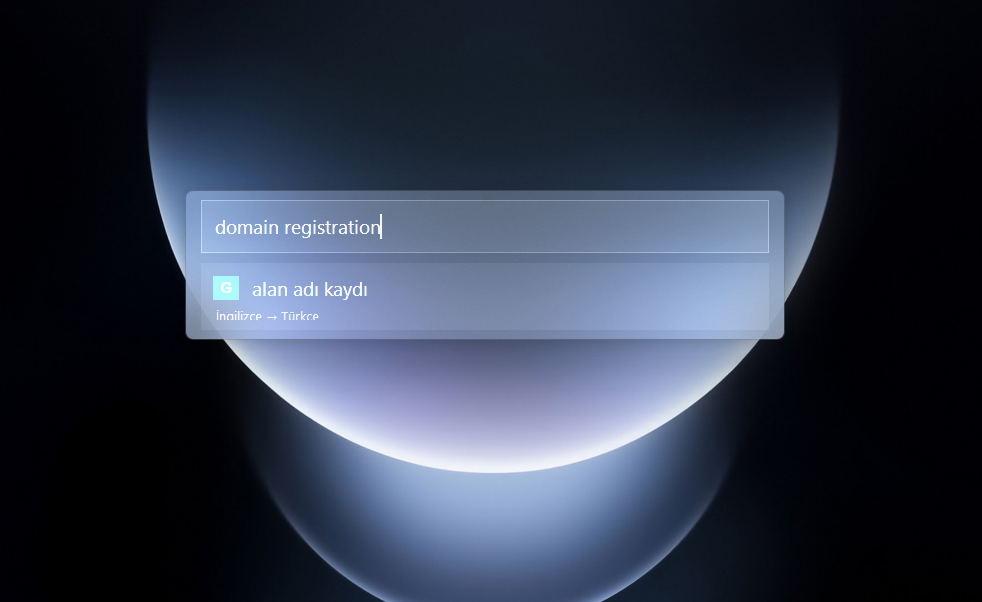
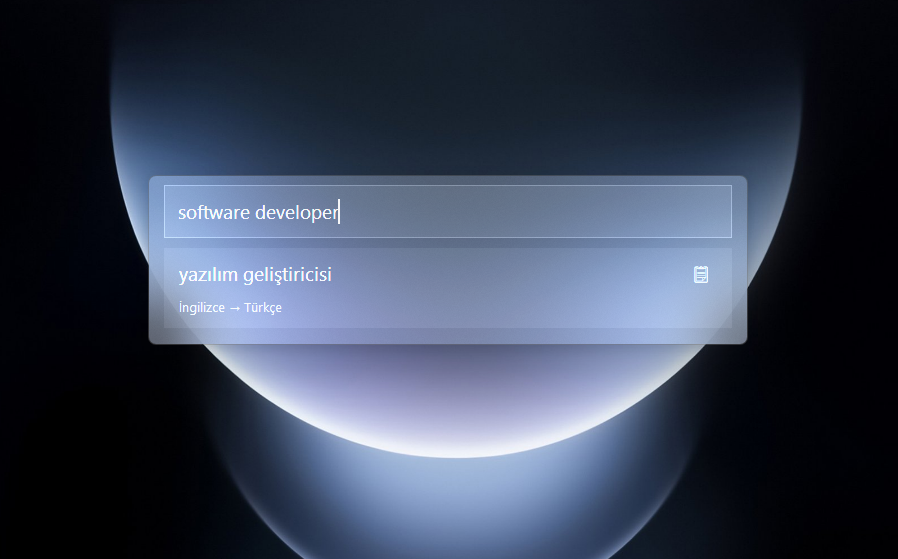
Add copy button and Malay language support
Added a copy-to-clipboard button for translated text in the UI, replacing the previous Google icon. Also added Malay ('ms') to the list of supported languages in the translation service. Adjusted window height calculation for better content fit.

Changed region(s): [[0.1247, 0.0912, 0.9042, 1.0]]

diff --git a/window.py b/window.py
@@ -86,6 +86,7 @@ class TranslatorWindow:
         self.is_visible = False
         self.hwnd = None
         self.bg_color = COLORS['background']
+        self.copy_button = None
         
     def create_window(self):
         """Create the main window."""
@@ -144,15 +145,20 @@ class TranslatorWindow:
         result_row = tk.Frame(result_content, bg=COLORS['result_bg'])
         result_row.pack(fill=tk.X)
         
-        # Google icon
-        self.google_label = tk.Label(
+        # Google icon removed as per request
+        # self.google_label = tk.Label(...)
+
+        # Copy button
+        self.copy_button = tk.Label(
             result_row,
-            text=" G ",
-            font=('Arial', 11, 'bold'),
-            fg='white',
-            bg=COLORS['accent'],
+            text="📋",
+            font=('Segoe UI', 12),
+            fg=COLORS['text_secondary'],
+            bg=COLORS['result_bg'],
+            cursor="hand2"
         )
-        self.google_label.pack(side=tk.LEFT, padx=(0, 10))
+        self.copy_button.pack(side=tk.RIGHT, padx=5)
+        self.copy_button.bind('<Button-1>', lambda e: self.copy_to_clipboard())
         
         # Translated text
         self.translated_label = tk.Label(
@@ -235,11 +241,28 @@ class TranslatorWindow:
             
         self.result_frame.pack(fill=tk.X, pady=(10, 0), padx=4)
         self.adjust_height(True)
-        
+
+    def copy_to_clipboard(self):
+        """Copy translated text to clipboard."""
+        text = self.translated_label.cget("text")
+        if text:
+            self.root.clipboard_clear()
+            self.root.clipboard_append(text)
+            # Visual feedback
+            orig_color = self.copy_button.cget("fg")
+            self.copy_button.config(fg="#ffffff")
+            self.root.after(200, lambda: self.copy_button.config(fg=orig_color))
+
     def adjust_height(self, with_result: bool):
         """Adjust window height based on content."""
         if with_result:
-            new_height = 150
+            self.root.update_idletasks()
+            # Calculate required height based on content
+            # Input area is roughly 60px
+            # Result frame height comes from its content
+            # Add extra padding (80px) to ensure source info is visible
+            required_height = 90 + self.result_frame.winfo_reqheight()
+            new_height = max(160, required_height)
         else:
             new_height = WINDOW_HEIGHT
             

diff --git a/translator.py b/translator.py
@@ -92,5 +92,6 @@ class TranslationService:
             'hu': 'Macarca',
             'ro': 'Rumence',
             'uk': 'Ukraynaca',
+            'ms': 'Malayca',
         }
         return languages.get(code, code.upper())
